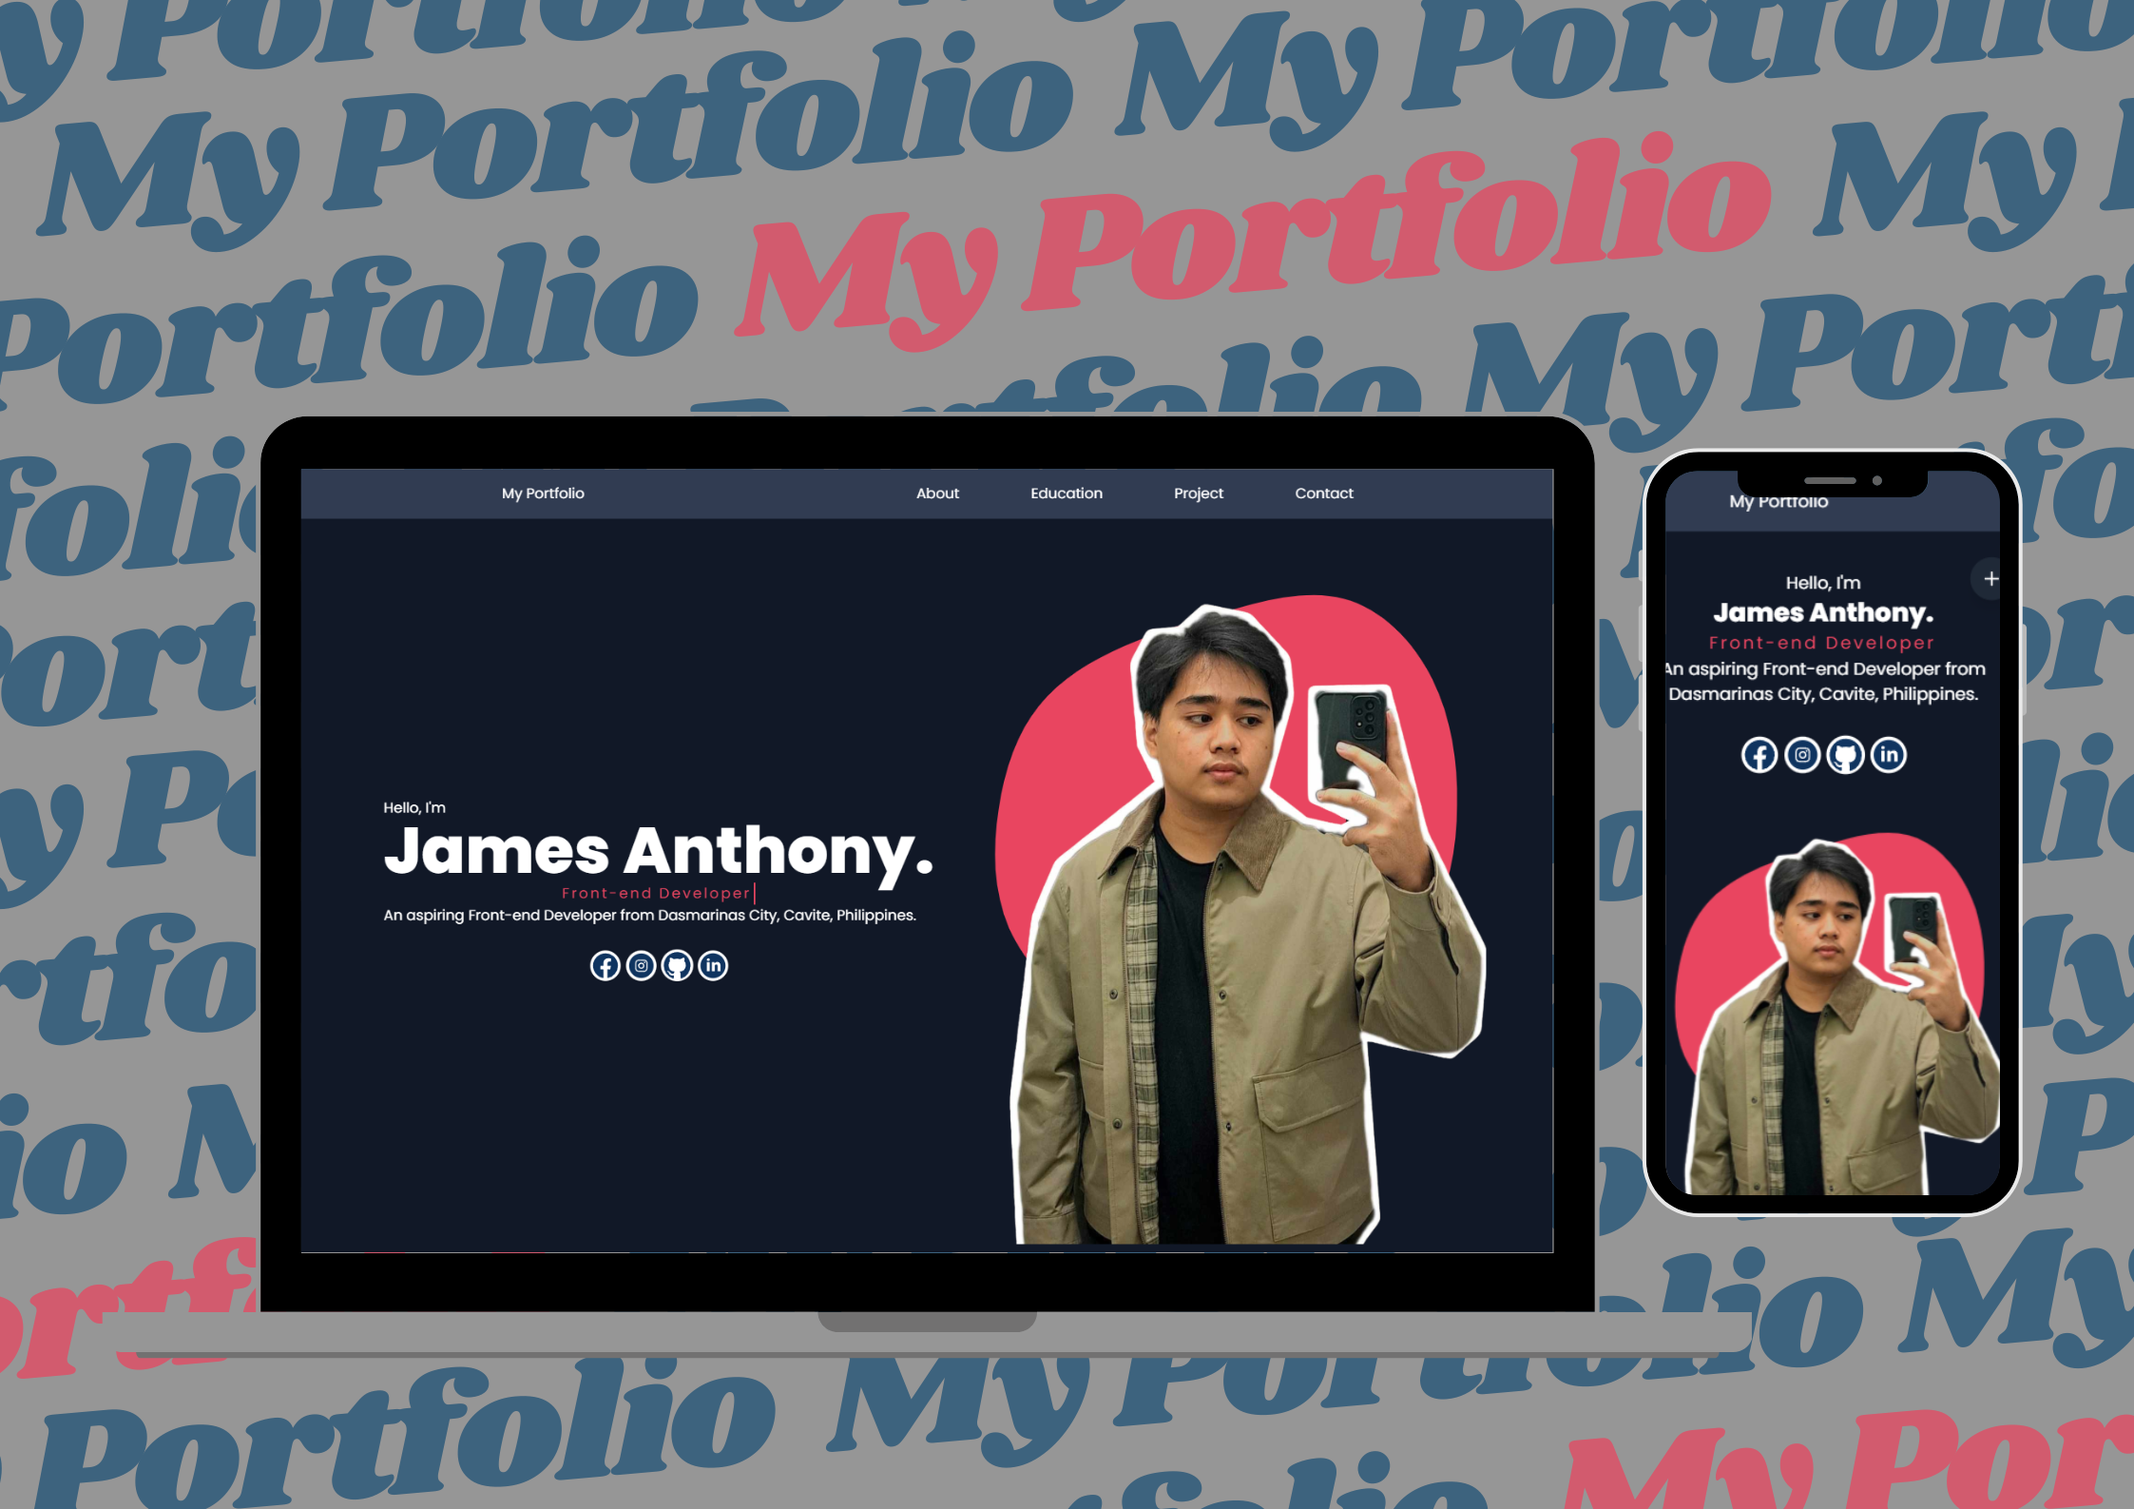
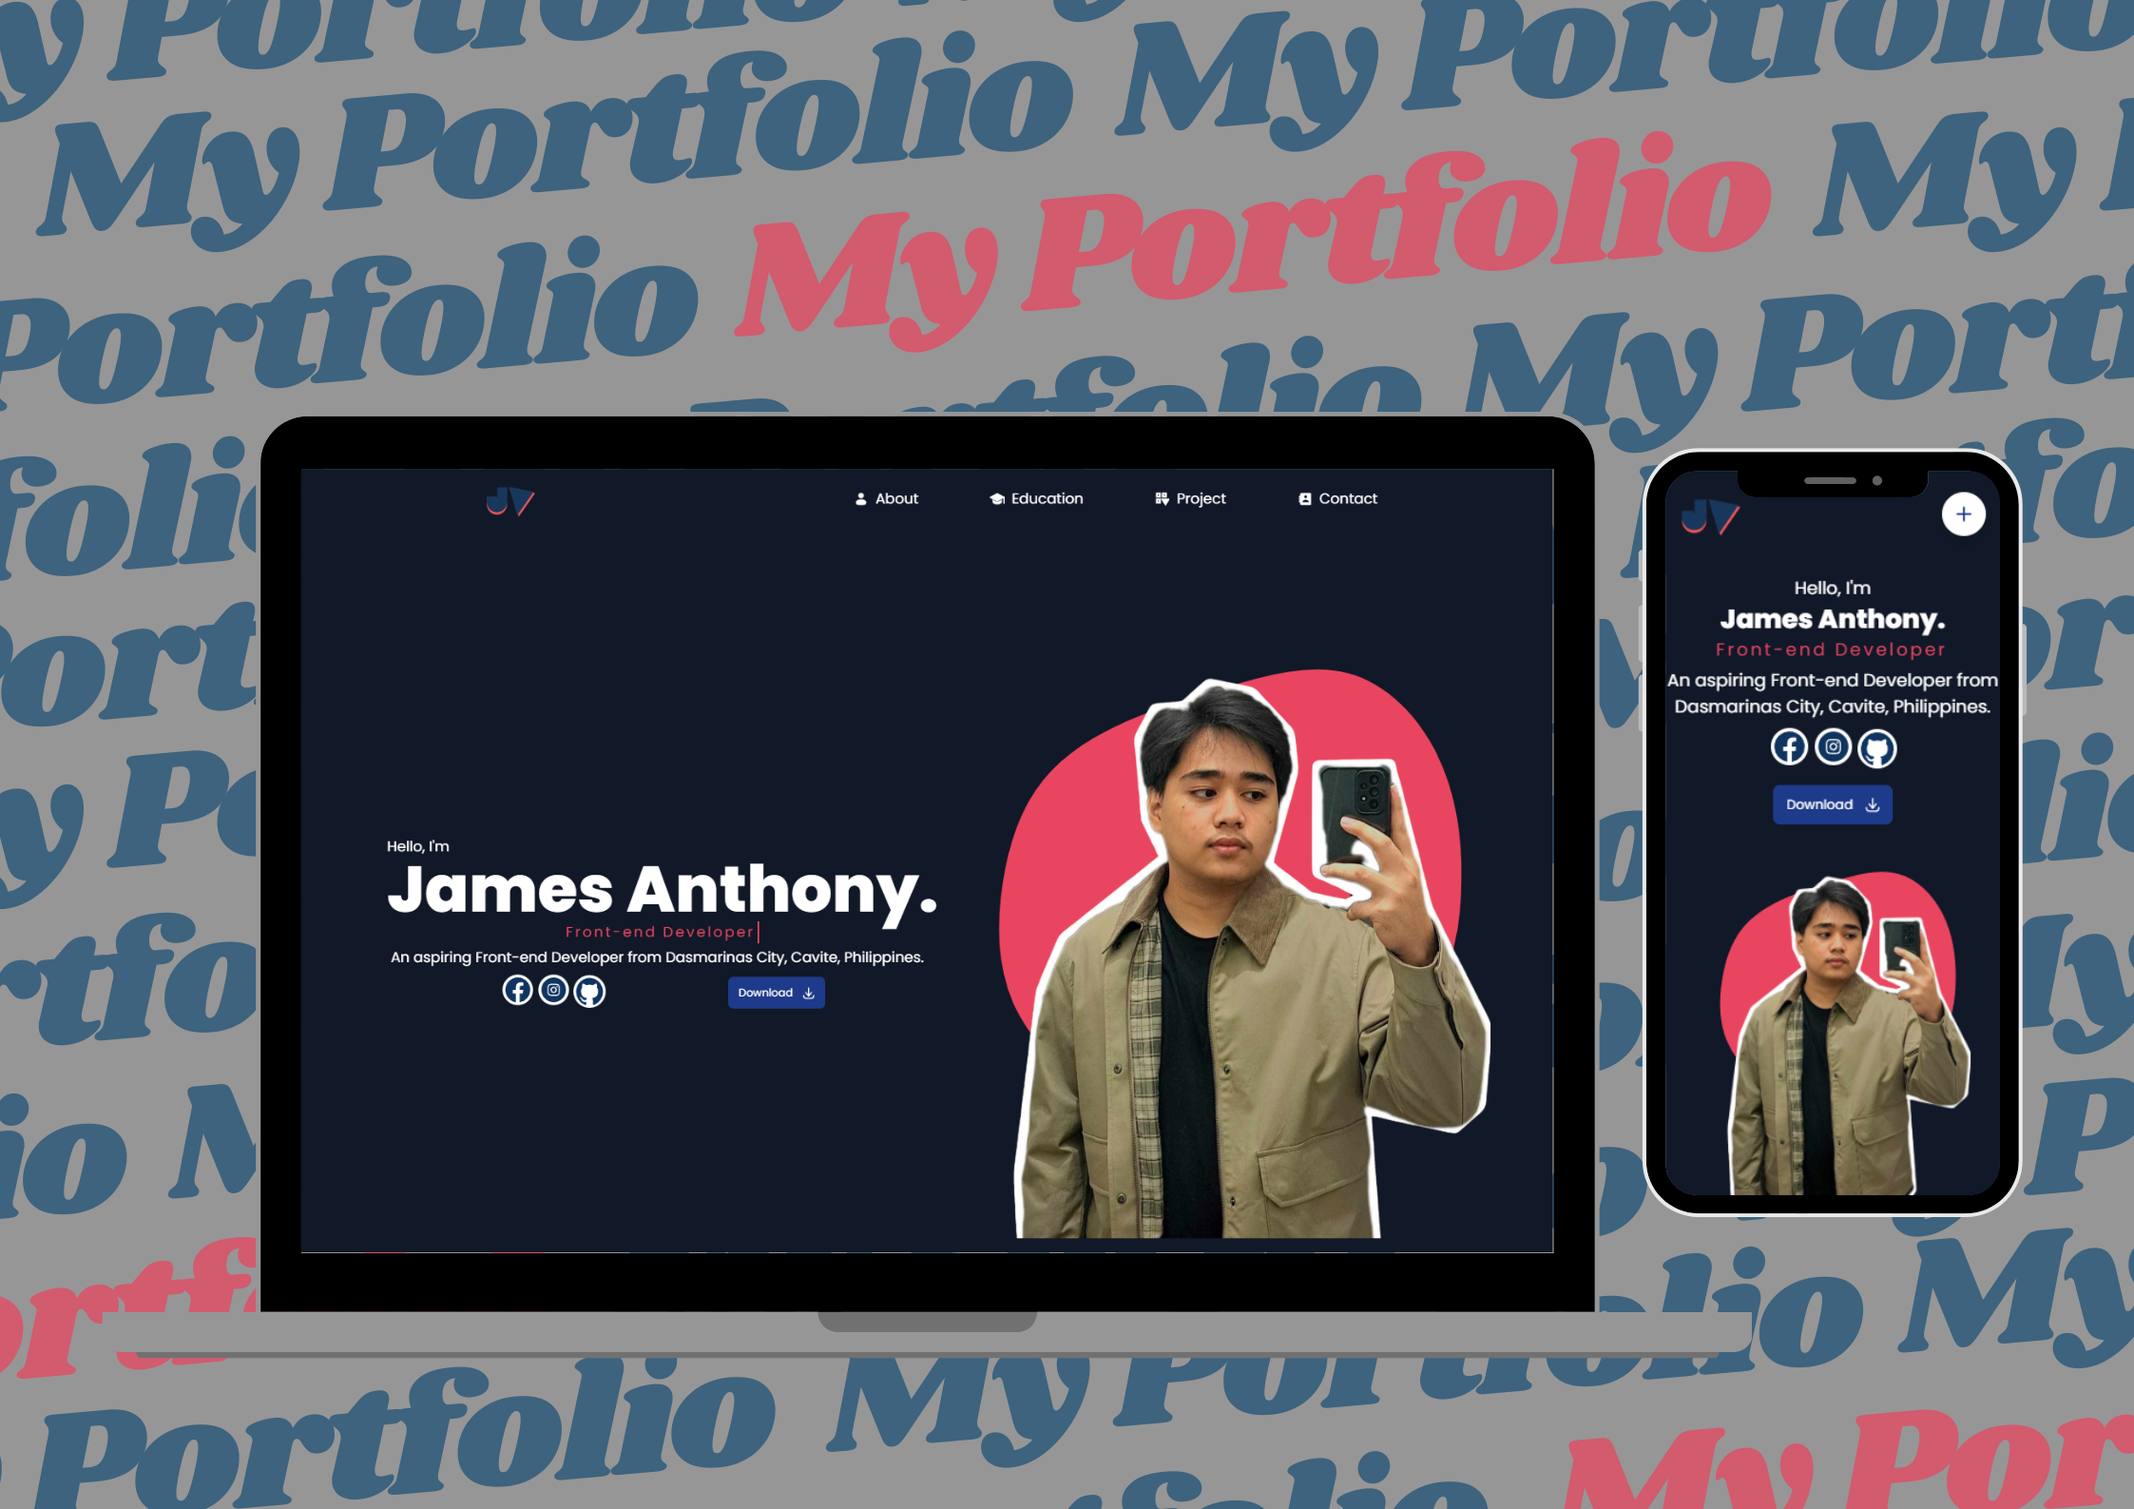
fixed few spaces

Changed region(s): [[0.1247, 0.3088, 0.7483, 0.8336], [0.7795, 0.3088, 0.9354, 0.8028], [0.1871, 0.5249, 0.4365, 0.6793]]

diff --git a/src/components/Education.jsx b/src/components/Education.jsx
@@ -6,52 +6,51 @@ import { motion } from "framer-motion";
 export default function Education() {
   return (
     <section className="py-6 px-5" id="education">
-        
-      <motion.div className="m-8"
-              initial={{ opacity: 0, y: 70 }}
-              whileInView={{ opacity: 1, y: 0 }}
-              transition={{ duration: 0.5 }}
-              viewport={{ once: false, amount: 0.3 }}
-              >
-        <div className="my-3 flex items-center justify-center gap-1"> 
-        <h1 className=" text-lg font-bold">Education</h1>
-        <HR />
-        </div>
-        <h3 className="text-2xl font-bold my-5">See where I <span className="text-blue-700">Went</span></h3>
-        <motion.ol className="relative border-s border-gray-200 dark:border-gray-700"
+      <div className="m-8 flex flex-col justify-center items-center">
+
+        <motion.ol className="relative flex flex-col justify-center md:px-20"
            initial={{ opacity: 0, y: 70 }}
            whileInView={{ opacity: 1, y: 0 }}
            transition={{ duration: 0.9 }}
            viewport={{ once: false, amount: 0.3 }}>
-          <li className="mb-10 ms-6">
-            <span className="absolute flex items-center justify-center w-6 h-6 bg-blue-100 rounded-full -start-3 ring-8 ring-white dark:ring-gray-900 dark:bg-blue-900">
-              <img
-                src={ncst}
-                alt="insta"
-                className="scale-125 transform transition-transform hover:scale-150 cursor-pointer"
-              />
-            </span>
-            <h3 className="flex items-center mb-1 text-lg font-semibold text-gray-300 dark:text-white">
+
+        <div className='flex flex-col gap-2'>
+
+        <div className="my-3 flex items-center justify-center gap-1"> 
+        <h1 className=" text-lg font-bold">Education</h1>
+        <HR />
+        </div>
+
+        <h3 className="text-2xl font-bold my-5 ">See where I <span className="text-blue-700">Went</span></h3>
+        </div>
+
+        <div className="flex flex-col gap-2">
+
+          <li className="mb-10 border-gray-700 border rounded-md p-4 max-w-[1200px]">
+          <div className="flex items-center gap-2 pb-4">
+            <img src={ncst} alt="insta" className="scale-125 transform transition-transform hover:scale-150 cursor-pointer w-8 h-8" />
+            <h3 className="mb-1 text-lg font-semibold text-gray-300 dark:text-white">
               National College of Science and Technology
             </h3>
+            </div>
             <time className="block mb-2 text-sm font-normal leading-none text-gray-400 dark:text-gray-500">
               September 2021 - Present
             </time>
             <p className="mb-4 text-sm font-normal text-gray-500 dark:text-gray-400">
-              I am pursuing a Bachelor of Science in Information Technology
+              I am pursuing a Bachelors of Science in Information Technology
               (BSIT), where I am enhancing my skills in programming, web
               development, and system analysis. This program provides me with a
               solid foundation in technology and prepares me for a successful
               career in the IT industry.
             </p>
           </li>
-          <li className="mb-10 ms-6">
-            <span className="absolute flex items-center justify-center w-6 h-6 bg-blue-100 rounded-full -start-3 ring-8 ring-white dark:ring-gray-900 dark:bg-blue-900">
-              <img src={congre} alt="insta" className="scale-125 transform transition-transform hover:scale-150 cursor-pointer" />
-            </span>
+          <li className="mb-10 border-gray-700 border p-4 rounded-md max-w-[1200px]">
+          <div className="flex items-center gap-2 pb-4">
+            <img src={congre} alt="insta" className="scale-125 transform transition-transform hover:scale-150 cursor-pointer w-8 h-8" />
             <h3 className="mb-1 text-lg font-semibold text-gray-300 dark:text-white">
-              Congressional Integrated High School - Senior High School
+              Congressional Integrated High School
             </h3>
+            </div>
             <time className="block mb-2 text-sm font-normal leading-none text-gray-400 dark:text-gray-500">
               August 2020 - June 2021
             </time>
@@ -61,13 +60,13 @@ export default function Education() {
               troubleshooting, networking, and system maintenance.
             </p>
           </li>
-          <li className="ms-6">
-            <span className="absolute flex items-center justify-center w-6 h-6 bg-blue-100 rounded-full -start-3 ring-8 ring-white dark:ring-gray-900 dark:bg-blue-900">
-              <img src={spc} alt="insta" className="scale-125 transform transition-transform hover:scale-150 cursor-pointer" />
-            </span>
+          <li className=" border-gray-700 border p-4 rounded-md max-w-[1200px]">
+            <div className="flex items-center gap-2 pb-4">
+            <img src={spc} alt="insta" className="scale-125 transform transition-transform hover:scale-150 cursor-pointer w-8 h-8" />
             <h3 className="mb-1 text-lg font-semibold text-gray-300 dark:text-white">
               San Pablo Colleges
             </h3>
+            </div>
             <time className="block mb-2 text-sm font-normal leading-none text-gray-400 dark:text-gray-500">
               August 2019 - June 2020
             </time>
@@ -78,8 +77,9 @@ export default function Education() {
               interest in technology.
             </p>
           </li>
+          </div>
         </motion.ol>
-      </motion.div>
+      </div>
     </section>
   );
 }

diff --git a/src/components/Hero.jsx b/src/components/Hero.jsx
@@ -3,6 +3,8 @@ import { motion, useScroll, useTransform } from 'framer-motion';
 import Me from "../assets/me.png";
 import download from "../assets/download-icon.svg";
 import Socials from "./socials-account";
+import backgroundImage from "../assets/background.png";
+
 
 const Hero = () => {
   const { scrollYProgress } = useScroll();
@@ -10,9 +12,8 @@ const Hero = () => {
   const yTransform = useTransform(scrollYProgress, [0.1, 0.3], [0, 100]);
 
   return (
-    <section className="relative min-h-screen">
-      
-      <div className="hero flex flex-col md:flex-row md:justify-center items-center md:gap-30 text-center md:text-justify md:h-screen relative" style={{ zIndex: 2 }}>
+    <section className="hero-container">
+      <div className="hero flex flex-col md:flex-row md:justify-center items-center text-center md:text-justify md:h-screen" style={{ zIndex: 2 }}>
         <motion.div
           className="m-2 p-2 animate__animated animate__bounceInLeft"
           style={{
@@ -28,14 +29,14 @@ const Hero = () => {
           <div className="typewriter max-w-[13.5rem]">
             <h1>Front-end Developer</h1>
           </div>
-          <p>
+          <p className='p-1'>
             An aspiring Front-end Developer from Dasmarinas City, Cavite,
             Philippines.
           </p>
-          <br />
+ 
           <div className="flex flex-col md:flex-row justify-center md:justify-evenly items-center gap-2">
             <Socials />
-            <a href="https://drive.google.com/uc?export=download&id=1dtNiQYuJDUH9kLlo08hVU7P71ksak5qK" download="CV.pdf">
+            <a href="https://drive.google.com/uc?export=download&id=1Eb28Ny0gEdAtTTMMEdVvzQusUMkFDePS" download="James_Guevarra_FrontEndDeveloper_Resume.pdf">
             <button className="bg-blue-900 hover:bg-blue-800 p-2 pl-3 rounded-md text-[12px] flex items-center">
               Download 
               <img src={download} alt="Download" className="w-5 h-5 ml-2" />
@@ -46,7 +47,7 @@ const Hero = () => {
         </motion.div>
 
         <motion.div
-          className="my-image animate__animated animate__bounceInRight max-w-[250px] md:max-w-[600px] max-h-[700px] md:max-h-[730px] overflow-hidden"
+          className="my-image animate__animated animate__bounceInRight max-w-[250px] md:max-w-[600px] max-h-[700px] md:max-h-[700px] overflow-hidden object-contain"
           initial={{ opacity: 1, y: 70 }}
           whileInView={{ opacity: 1, y: 0 }}
           transition={{ duration: 0.5 }}

diff --git a/index.html b/index.html
@@ -3,10 +3,8 @@
 <head>
   <meta charset="UTF-8" />
   <link rel="preconnect" href="https://fonts.googleapis.com">
-  <link rel="preconnect" href="https://fonts.gstatic.com" crossorigin>
-  <link
-    href="https://fonts.googleapis.com/css2?family=Inter:ital,opsz,wght@0,14..32,100..900;1,14..32,100..900&family=Montserrat:wght@200&family=Outfit:wght@100..900&family=Poppins:ital,wght@0,100;0,200;0,300;0,400;0,500;0,600;0,700;0,800;0,900;1,100;1,200;1,300;1,400;1,500;1,600;1,700;1,800;1,900&family=Raleway:wght@300;400&family=Rubik:ital,wght@0,300..900;1,300..900&family=Space+Grotesk:wght@300..700&display=swap"
-    rel="stylesheet">
+<link rel="preconnect" href="https://fonts.gstatic.com" crossorigin>
+<link href="https://fonts.googleapis.com/css2?family=Inter:ital,opsz,wght@0,14..32,100..900;1,14..32,100..900&family=Luckiest+Guy&family=Montserrat:wght@200&family=Outfit:wght@100..900&family=Poppins:ital,wght@0,100;0,200;0,300;0,400;0,500;0,600;0,700;0,800;0,900;1,100;1,200;1,300;1,400;1,500;1,600;1,700;1,800;1,900&family=Raleway:wght@300;400&family=Rubik:ital,wght@0,300..900;1,300..900&family=Space+Grotesk:wght@300..700&display=swap" rel="stylesheet">
   <link rel="icon" type="image/svg+xml" href="./src/assets/myLogo.png" />
   <meta name="viewport" content="width=device-width, initial-scale=1, minimum-scale=1">
 

diff --git a/src/components/Projects.jsx b/src/components/Projects.jsx
@@ -34,18 +34,23 @@ export default function Projects() {
   ));
 
   return (
-    <section className="text-xs py-6 px-10" id="project">
+    <section className="text-xs py-6 px-5" id="project">
+
+      <div className="m-8 flex flex-col justify-center items-center">
+      <div className="flex flex-col gap-2 px-20">
+
       <motion.div
-        className="text-gray-200"
+        className="flex flex-col gap-2"
         initial={{ opacity: 0, y: 70 }}
         whileInView={{ opacity: 1, y: 0 }}
         transition={{ duration: 0.2 }}
         viewport={{ once: false, amount: 0.3 }}
       >
-        <div className="my-3 flex items-center justify-center gap-1">
+        <div className="gap-1">
           <h1 className=" text-lg font-bold">Project</h1>
           <HR />
         </div>
+
         <h1 className="mt-2 text-2xl font-bold">
           See my <span className="text-blue-700">Works</span>
         </h1>
@@ -58,6 +63,8 @@ export default function Projects() {
 
       <div className="flex flex-col md:flex-col justify-center items-center xl:flex-row gap-8 md:gap-4">
         {setOfProjects}
+      </div>
+      </div>
       </div>
     </section>
   );

diff --git a/src/App.jsx b/src/App.jsx
@@ -12,14 +12,13 @@ export default function App() {
     <Router>
       <main className="bg-gray-900 text-white">
         <Routes>
-          <Route path="/" element={<Home />} />
-          <Route path="/about" element={<About />} />
-          <Route path="/education" element={<Education />} />
-          <Route path="/project" element={<Project />} />
-          <Route path="/contact" element={<Contact />} />
-          <Route path="*" element={<NotFound />} />
+          <Route path="/" element={<><Home /><Footer /></>} />
+          <Route path="/about" element={<><About /><Footer /></>} />
+          <Route path="/education" element={<><Education /><Footer /></>} />
+          <Route path="/project" element={<><Project /><Footer /></>} />
+          <Route path="/contact" element={<><Contact /><Footer /></>} />
+          <Route path="*" element={<NotFound />} />  
         </Routes>
-        <Footer />
       </main>
     </Router>
   );

diff --git a/src/components/Navbar.jsx b/src/components/Navbar.jsx
@@ -27,16 +27,12 @@ const Navbar = () => {
 
   return (
     <header
-      className="flex sticky top-0 z-50 md:mb-0 bg-transparent transition-colors duration-300"
+      className="flex sticky top-0 z-50 md:mb-0 bg-transparent transition-colors duration-300 p-2"
       id="navbar"
     >
       <div className="flex justify-between md:justify-evenly items-center p-2 md:p-1 w-full px-10">
         <a href="/" className="flex-shrink-0">
-          <img
-            src={myLogo}
-            alt="Logo"
-            className="h-12 w-12 sm:h-14 sm:w-14 md:h-13 md:w-13 lg:h-16 lg:w-16 object-contain cursor-pointer transition-all duration-300"
-          />
+          <img src={myLogo} alt="My Logo" className="w-14 h-12" />
         </a>
 
         <div className="animate__animated animate__fadeIn">

diff --git a/src/index.css b/src/index.css
@@ -26,6 +26,11 @@ body{
   color: #AAADB2;
   overflow-x: hidden;
 }
+.headerName{
+  font-family: "Luckiest Guy", serif;
+  font-weight: 400;
+  font-style: normal;
+}
 
 .my-image{
   background-image: url("/blob2.svg");
@@ -41,11 +46,11 @@ body{
 }
 
 .typewriter {
-  overflow: hidden; /* Ensures the content is not revealed until the animation */
-  border-right: .15em solid #E94560; /* The typwriter cursor */
-  white-space: nowrap; /* Keeps the content on a single line */
-  margin: 0 auto; /* Gives that scrolling effect as the typing happens */
-  letter-spacing: .15em; /* Adjust as needed */
+  overflow: hidden; 
+  border-right: .15em solid #E94560; 
+  white-space: nowrap; 
+  margin: 0 auto; 
+  letter-spacing: .15em;
   color: #E94560;
   animation: 
     typing 3.5s steps(40, end),

diff --git a/src/Home.jsx b/src/Home.jsx
@@ -4,7 +4,7 @@ import Education from "./components/Education";
 import Project from "./components/Projects";
 import Contact from "./components/Contact";
 import About from "./components/About";
-import ParticlesBackground from "./components/ParticlesBackground";
+
 
 export default function Home() {
   return (
@@ -12,7 +12,6 @@ export default function Home() {
       <Navbar />
       <section id="home">
         <Hero />
-        <ParticlesBackground/>
       </section>
       <section id="about">
         <About />

diff --git a/src/components/Footer.jsx b/src/components/Footer.jsx
@@ -1,7 +1,8 @@
 export default function Footer(){
     return(
-            <section className="text-xs py-2 px-2">
+            <footer className="text-xs py-2 px-2">
                 <h1 className="text-center text-gray-500 text-sm">&copy; 2025 James Anthony Guevarra</h1>
-            </section>
+                <h1 className="text-center text-gray-500 text-sm">Made with React and Vite. Deployed with Vercel.</h1>
+            </footer>
     )
 }

diff --git a/src/projects.js b/src/projects.js
@@ -37,7 +37,7 @@ const projects = [
                     "HTML",
                     "CSS",
                 ],
-                url: "http://",
+                url: "https://dish-dash-system.vercel.app/",
                 repo: "https://github.com/JamesAnthony04/dish-dash-system"
             },
             {

diff --git a/src/App.css b/src/App.css
@@ -19,6 +19,7 @@
 }
 
 
+
 @keyframes logo-spin {
   from {
     transform: rotate(0deg);
